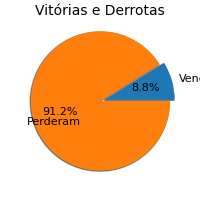
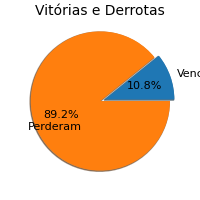
fixed mistakes

diff --git a/Interface/turinginverso.py b/Interface/turinginverso.py
@@ -136,7 +136,7 @@ while(not end):
                         telaInst=True
                         telaInicial=False
                         mqtt.client.publish(mqtt.user+"/E1", payload="1", qos=0, retain=False)
-                        time.sleep(0.2)
+                        time.sleep(0.3)
                         mqtt.client.publish(mqtt.user+"/E1", payload="0", qos=0, retain=False)
                         i=0
                         mqtt.rodada=['0','0','0']
@@ -159,7 +159,7 @@ while(not end):
                 if (event.type == pg.MOUSEBUTTONDOWN):  
                     if ButtonJ.isOver(mouse):
                         mqtt.client.publish(mqtt.user+"/E2", payload="1", qos=0, retain=False)
-                        time.sleep(0.2)
+                        time.sleep(0.3)
                         mqtt.client.publish(mqtt.user+"/E2", payload="0", qos=0, retain=False)
                         telaJogo=True
                         telaInst=False
@@ -204,7 +204,7 @@ while(not end):
             pg.draw.rect(tela,(0,0,0),[270,200,100,100])
             pg.display.update()
             mqtt.client.publish(mqtt.user+"/E7", payload="1", qos=0, retain=False)
-            time.sleep(0.2)
+            time.sleep(0.3)
             mqtt.client.publish(mqtt.user+"/E7", payload="0", qos=0, retain=False)
             mqtt.audio=0
             i+=1
@@ -216,19 +216,19 @@ while(not end):
             if (event.type == pg.MOUSEBUTTONDOWN):  
                 if ButtonA.isOver(mouse):
                     mqtt.client.publish(mqtt.user+"/E3", payload="1", qos=0, retain=False)
-                    time.sleep(0.2)
+                    time.sleep(0.3)
                     mqtt.client.publish(mqtt.user+"/E3", payload="0", qos=0, retain=False)
                 elif ButtonB.isOver(mouse):
                     mqtt.client.publish(mqtt.user+"/E4", payload="1", qos=0, retain=False)
-                    time.sleep(0.2)
+                    time.sleep(0.3)
                     mqtt.client.publish(mqtt.user+"/E4", payload="0", qos=0, retain=False)
                 elif ButtonC.isOver(mouse):
                     mqtt.client.publish(mqtt.user+"/E5", payload="1", qos=0, retain=False)
-                    time.sleep(0.2)
+                    time.sleep(0.3)
                     mqtt.client.publish(mqtt.user+"/E5", payload="0", qos=0, retain=False)
                 elif ButtonD.isOver(mouse):
                     mqtt.client.publish(mqtt.user+"/E6", payload="1", qos=0, retain=False)
-                    time.sleep(0.2)
+                    time.sleep(0.3)
                     mqtt.client.publish(mqtt.user+"/E6", payload="0", qos=0, retain=False)
 
         if mqtt.ganhou == 1:
@@ -279,10 +279,10 @@ while(not end):
                 if (event.type == pg.MOUSEBUTTONDOWN):  
                     if ButtonR.isOver(mouse):
                         mqtt.client.publish(mqtt.user+"/E1", payload="1", qos=0, retain=False)
-                        time.sleep(0.2)
+                        time.sleep(0.3)
                         mqtt.client.publish(mqtt.user+"/E1", payload="0", qos=0, retain=False)
                         mqtt.client.publish(mqtt.user+"/E2", payload="1", qos=0, retain=False)
-                        time.sleep(0.2)
+                        time.sleep(0.3)
                         mqtt.client.publish(mqtt.user+"/E2", payload="0", qos=0, retain=False)
                         i=0
                         mqtt.rodada=['0','0','0']
@@ -328,10 +328,10 @@ while(not end):
                 if (event.type == pg.MOUSEBUTTONDOWN):  
                     if ButtonR.isOver(mouse):
                         mqtt.client.publish(mqtt.user+"/E1", payload="1", qos=0, retain=False)
-                        time.sleep(0.2)
+                        time.sleep(0.3)
                         mqtt.client.publish(mqtt.user+"/E1", payload="0", qos=0, retain=False)
                         mqtt.client.publish(mqtt.user+"/E2", payload="1", qos=0, retain=False)
-                        time.sleep(0.2)
+                        time.sleep(0.3)
                         mqtt.client.publish(mqtt.user+"/E2", payload="0", qos=0, retain=False)
                         i=0
                         mqtt.rodada=['0','0','0']

diff --git a/Interface/graficos.py b/Interface/graficos.py
@@ -26,12 +26,12 @@ def atualizaGraf():
     
     px = (1/plt.rcParams['figure.dpi'])
 
-    labels='Venceram','Perderam'
+    labels='Replicantes','Humanos'
     fig1, ax1 = plt.subplots(figsize=(200*px,200*px))
     ax1.pie(venc, radius=3,center=(4,4),labels=labels,autopct='%1.1f%%', explode=(0.2,0), shadow=True, textprops={'fontsize': 8})
     ax1.axis('equal')
-    fig1.suptitle('Vitórias e Derrotas',fontsize=10)
-    fig1.savefig('imagens/graphVitorias.png',edgecolor=(0,0,0))
+    fig1.suptitle('Humanos e Replicantes',fontsize=10)
+    fig1.savefig('./assets/images/graphVitorias.png',edgecolor=(0,0,0))
     plt.close()
 
     fig2, ax2 = plt.subplots(figsize=(200*px,200*px))
@@ -46,6 +46,6 @@ def atualizaGraf():
     ax2.tick_params(axis='both', labelsize = 6)
     ax2.set_xlabel('Jogadores',fontsize=6)
     fig2.suptitle('Rodada Final',fontsize=10)
-    fig2.savefig('imagens/graphRodadas.png',edgecolor=(0,0,0))
+    fig2.savefig('./assets/images/graphRodadas.png',edgecolor=(0,0,0))
 
     plt.close()
